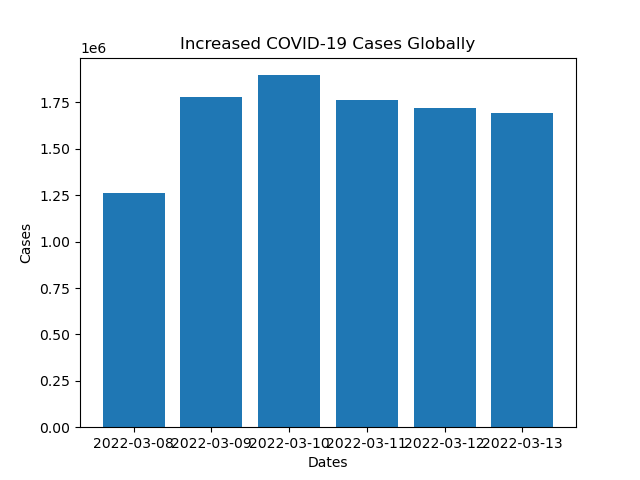
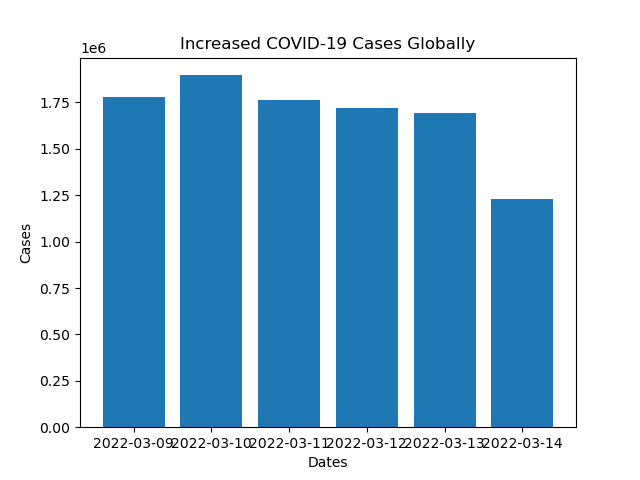
u proj

diff --git a/Project/use_api_preprocess.py b/Project/use_api_preprocess.py
@@ -75,9 +75,9 @@ def add_tweets_data_to_cases():
     df_cases = pd.read_csv('WHO-COVID-19-global-data.csv')
     # ----------------------------------------
     # CHANGE start_day
-    start_day = '2022-03-08'
+    start_day = '2022-03-09'
     # CHANGE end_day
-    end_day = '2022-03-13'
+    end_day = '2022-03-14'
     # ----------------------------------------
     df_cases_shrinked = get_cases_by_day(df_cases, start_day, end_day)
     for date in df_cases_shrinked.index.tolist():
